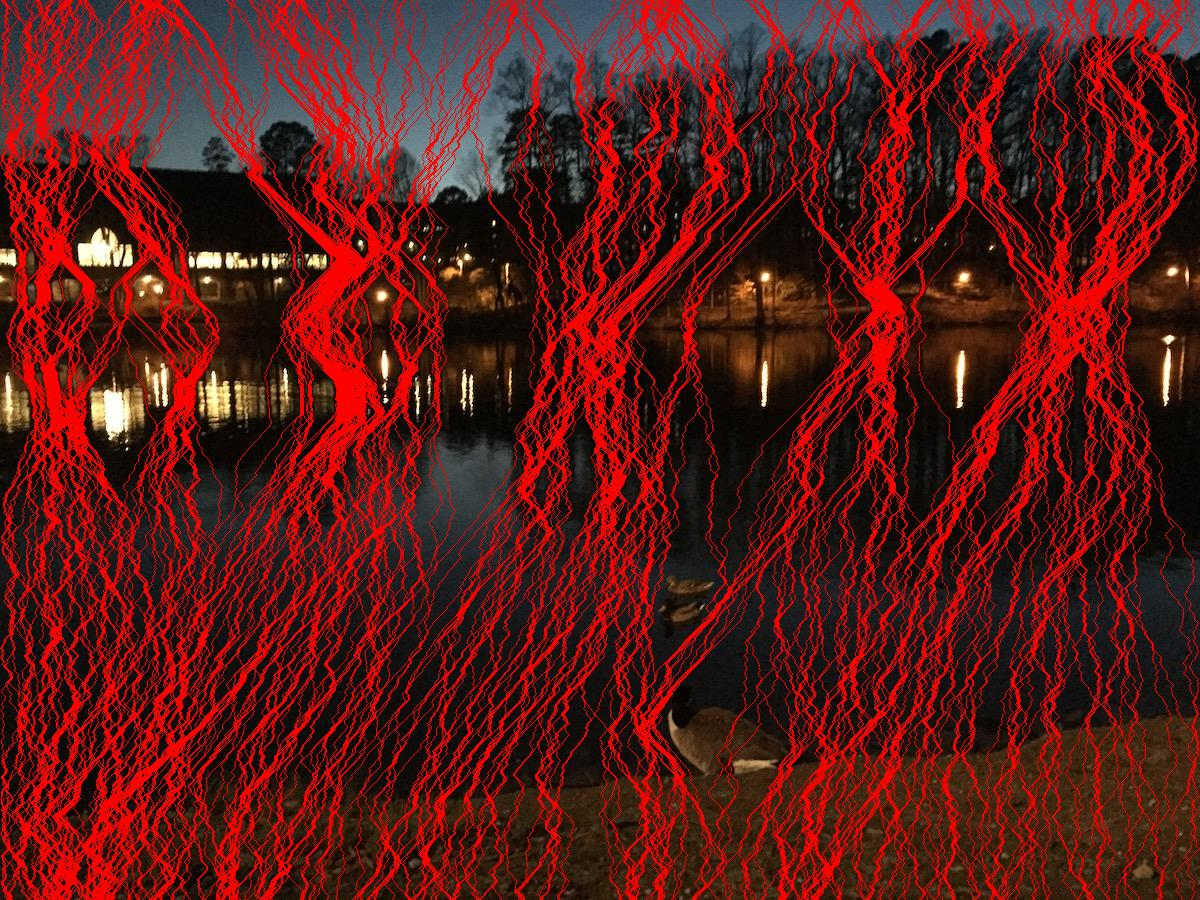
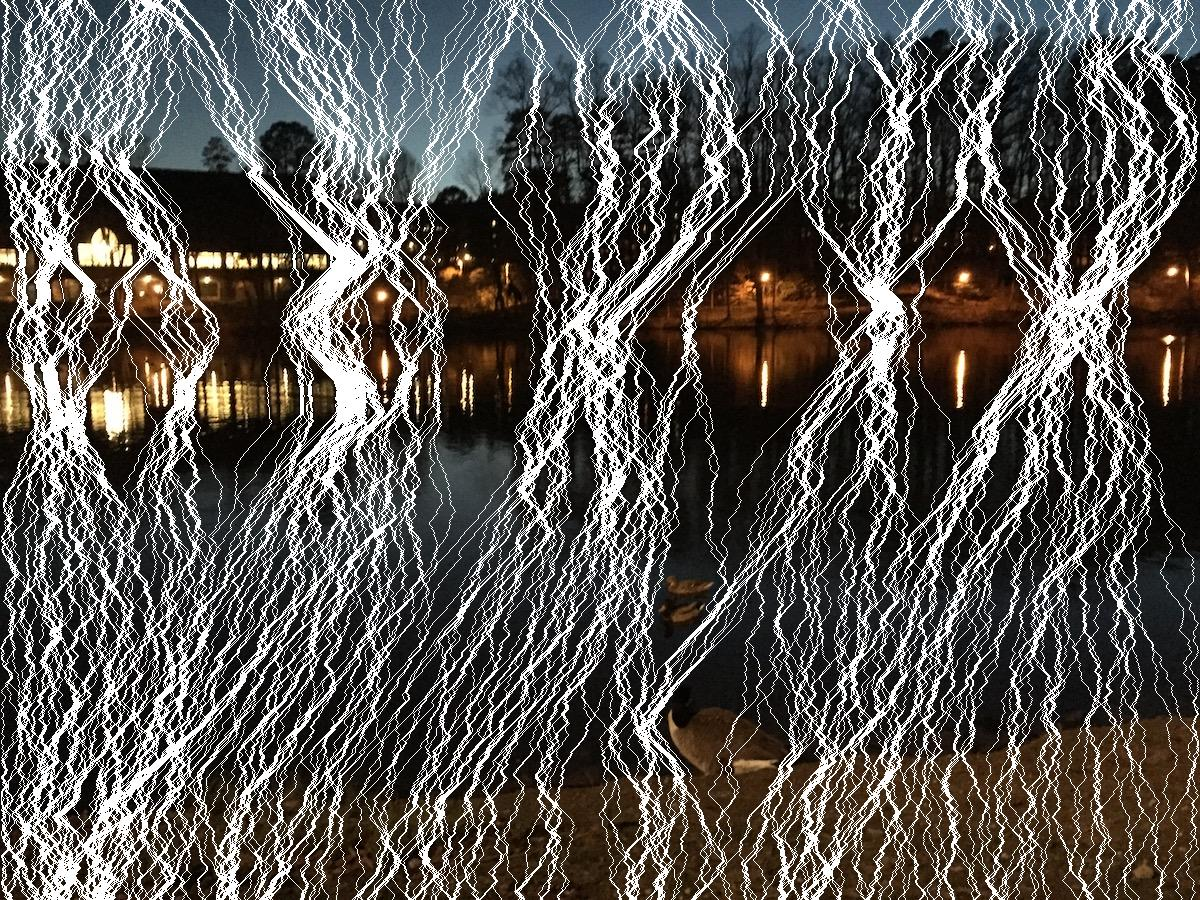
Updated the seam color

diff --git a/src/com/ardabasaran/SeamCarver.java b/src/com/ardabasaran/SeamCarver.java
@@ -581,7 +581,7 @@ public class SeamCarver {
                     int coord = seam.getPixels()[i];
                     for(int j = current_height; j > coord; j--)
                         seam_image_array[i][j] = seam_image_array[i][j-1];
-                    seam_image_array[i][coord] = (0xff << 16);
+                    seam_image_array[i][coord] = (0xffffff);
 
                 }
                 current_height++;
@@ -594,7 +594,7 @@ public class SeamCarver {
                     int coord = seam.getPixels()[j];
                     for(int i = current_width; i > coord; i--)
                         seam_image_array[i][j] = seam_image_array[i-1][j];
-                    seam_image_array[coord][j] = (0xff << 16);
+                    seam_image_array[coord][j] = (0xffffff);
                 }
 
                 current_width++;
